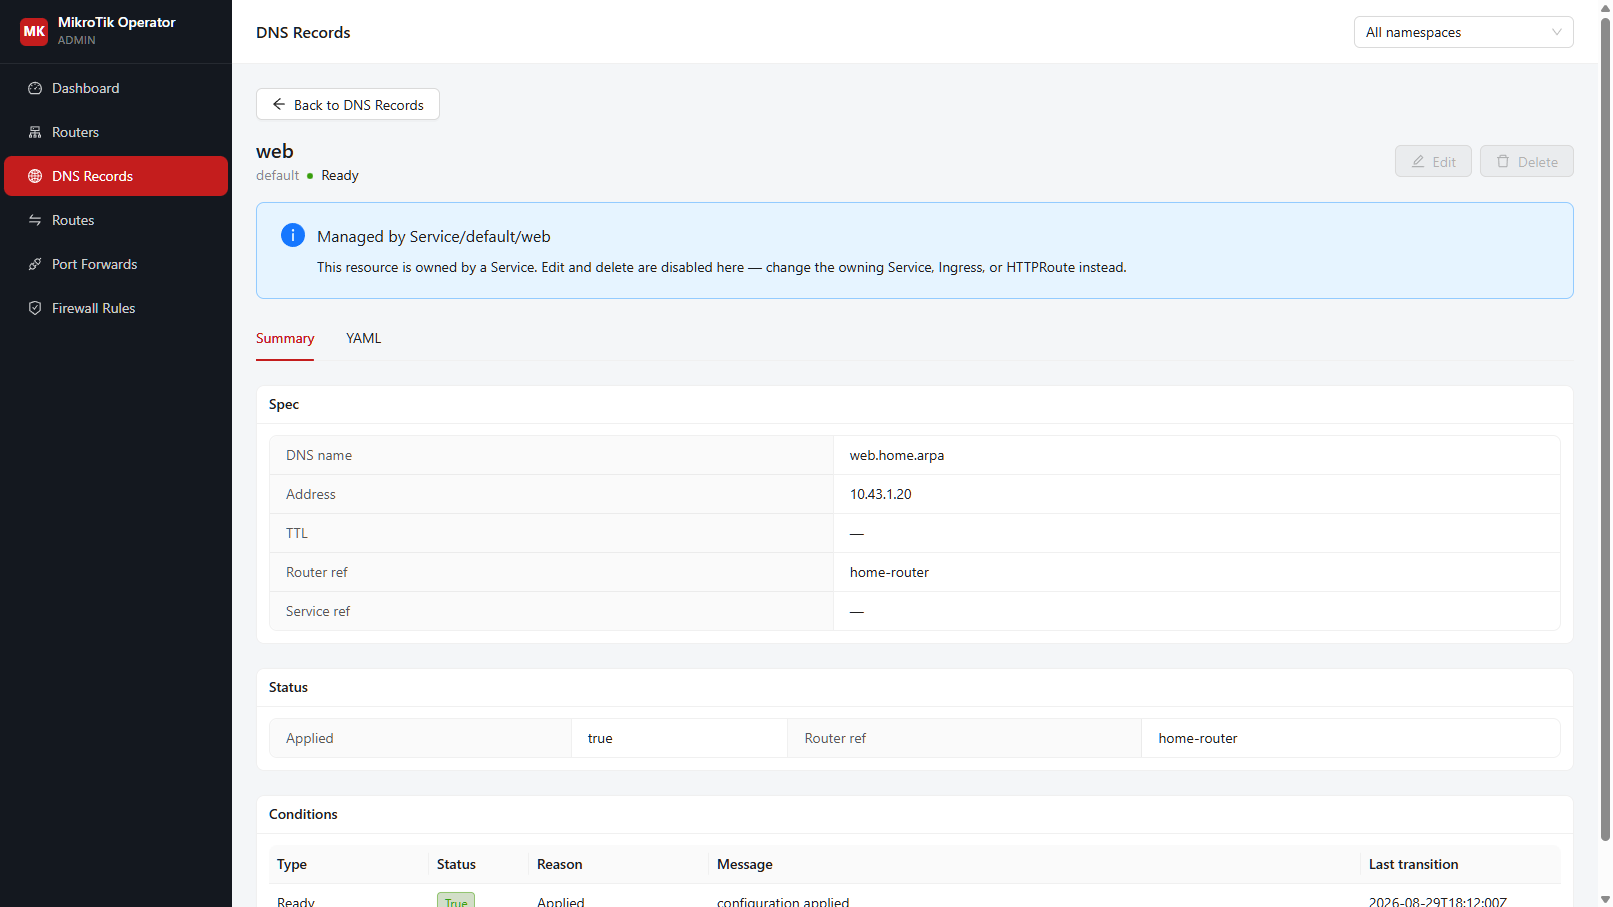
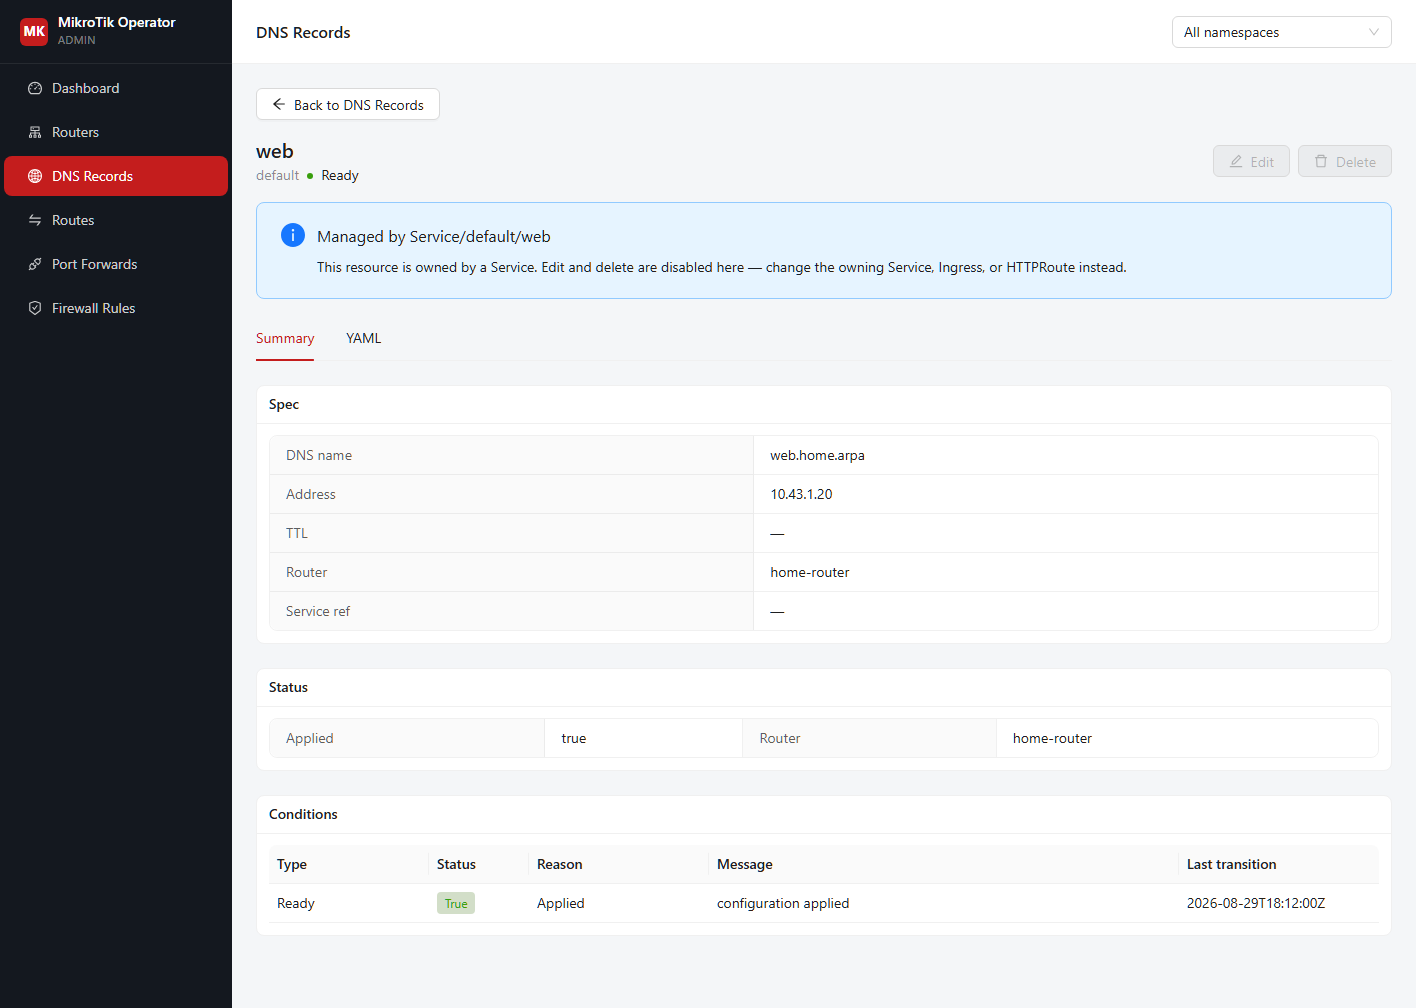
docs: refresh Admin UI screenshots and README captions (#34)
* docs: refresh Admin UI screenshots and list/create notes

* docs: align README Admin UI captions with current screenshots

diff --git a/docs/_guide/admin-ui.md b/docs/_guide/admin-ui.md
@@ -13,13 +13,13 @@ custom resources: routers, DNS records, routes, port forwards, and firewall
 rules. The UI lists objects across namespaces, shows status conditions, and
 lets you create, edit, or delete standalone resources. New resources are
 always created in the operator namespace; the create form does not offer a
-namespace picker. The header filter still lists existing objects across
-namespaces, including generated resources owned by Services in other
-namespaces.
+namespace picker. The header namespace filter is searchable and still lists
+existing objects across namespaces, including generated resources owned by
+Services in other namespaces.
 
 The panel is disabled by default.
 
-![Admin UI dashboard with per-kind counts and not-ready resources]({{ '/images/ui-dashboard.png' | relative_url }})
+![Admin UI dashboard with per-kind counts including Routes and a not-ready resources table]({{ '/images/ui-dashboard.png' | relative_url }})
 
 ## Enable the UI
 
@@ -62,8 +62,20 @@ names, and create or delete MikroTik custom resources.
 
 Use it only on a trusted network, or behind an authenticating reverse proxy.
 The UI container never returns Secret `data` or `stringData`; credential
-pickers show Secret names only. Service and Pod pickers likewise return names
-only.
+pickers show Secret names only. Service and Pod pickers are searchable
+dropdowns and likewise return names only.
+
+## Lists and create
+
+List pages include a name/spec search box and a Create button. Ownership
+labels in the table are truncated with an ellipsis when they do not fit;
+hover the badge to read the full `Managed · Service/namespace/name` text.
+Port-forward creates include optional `spec.destinationAddress` (the IP that
+initially receives the traffic). Leave it empty to match any destination;
+annotated Services still use `public-ip` as the fallback when that field is
+empty.
+
+![DNS Records list with search, Create, a searchable namespace filter, and an ellipsized ownership badge]({{ '/images/ui-dns-records.png' | relative_url }})
 
 ## Owned resources are read-only
 
@@ -78,7 +90,7 @@ The UI treats owned resources as read-only:
 - The YAML view is read-only.
 - Direct update or delete requests are rejected.
 
-![Owned DNS record shown as read-only and managed by a Service]({{ '/images/ui-owned-dns-record.png' | relative_url }})
+![Owned DNS record shown as read-only with disabled Edit/Delete and a Managed by Service banner]({{ '/images/ui-owned-dns-record.png' | relative_url }})
 
 Change generated DNS records, routes, or port forwards on the owning
 Kubernetes resource, not in the UI. Standalone custom resources that you

diff --git a/README.md b/README.md
@@ -113,19 +113,21 @@ kubectl -n mikrotik-operator-system port-forward \
 ```
 
 On a Linux host, `make test-install-ui` installs K3s and the chart with the
-UI enabled. See [`docs/admin-ui.md`](docs/admin-ui.md) for the full guide.
+UI enabled. See [`docs/_guide/admin-ui.md`](docs/_guide/admin-ui.md) for the
+full guide.
 
-![Admin UI dashboard with per-kind counts and not-ready resources](docs/images/ui-dashboard.png)
+![Admin UI dashboard with per-kind counts including Routes and a not-ready resources table](docs/images/ui-dashboard.png)
 
-The dashboard shows counts for each custom resource kind and highlights
-objects that are not Ready.
+The dashboard shows counts for routers, DNS records, routes, port forwards,
+and firewall rules, plus objects that are not Ready.
 
-![DNS record list with managed and standalone resources](docs/images/ui-dns-records.png)
+![DNS Records list with search, Create, a searchable namespace filter, and an ellipsized ownership badge](docs/images/ui-dns-records.png)
 
-List pages support namespace filtering, search, and create/edit/delete for
-standalone resources.
+List pages include name/spec search, a searchable namespace filter, and
+create/edit/delete for standalone resources. Ownership badges truncate with
+an ellipsis; hover to read the full `Managed · Service/namespace/name` text.
 
-![Owned DNS record shown as read-only and managed by a Service](docs/images/ui-owned-dns-record.png)
+![Owned DNS record shown as read-only with disabled Edit/Delete and a Managed by Service banner](docs/images/ui-owned-dns-record.png)
 
 Resources generated from a `Service`, `Ingress`, or `HTTPRoute` show a
 **Managed by** banner. Edit and delete are disabled; change the owning
@@ -195,8 +197,8 @@ make test-install-ui
 ```
 
 `make test-install UI_ENABLED=true` does the same. After install, port-forward
-the UI Service as described in [`docs/admin-ui.md`](docs/admin-ui.md). Override
-`IMAGE_TAG` to pin operator and UI images together.
+the UI Service as described in [`docs/_guide/admin-ui.md`](docs/_guide/admin-ui.md).
+Override `IMAGE_TAG` to pin operator and UI images together.
 
 On WSL2, Docker Desktop adds a `/Docker/host` mount whose options contain an
 unescaped space. Kubelet treats that as a fatal `/proc/mounts` parse error and
